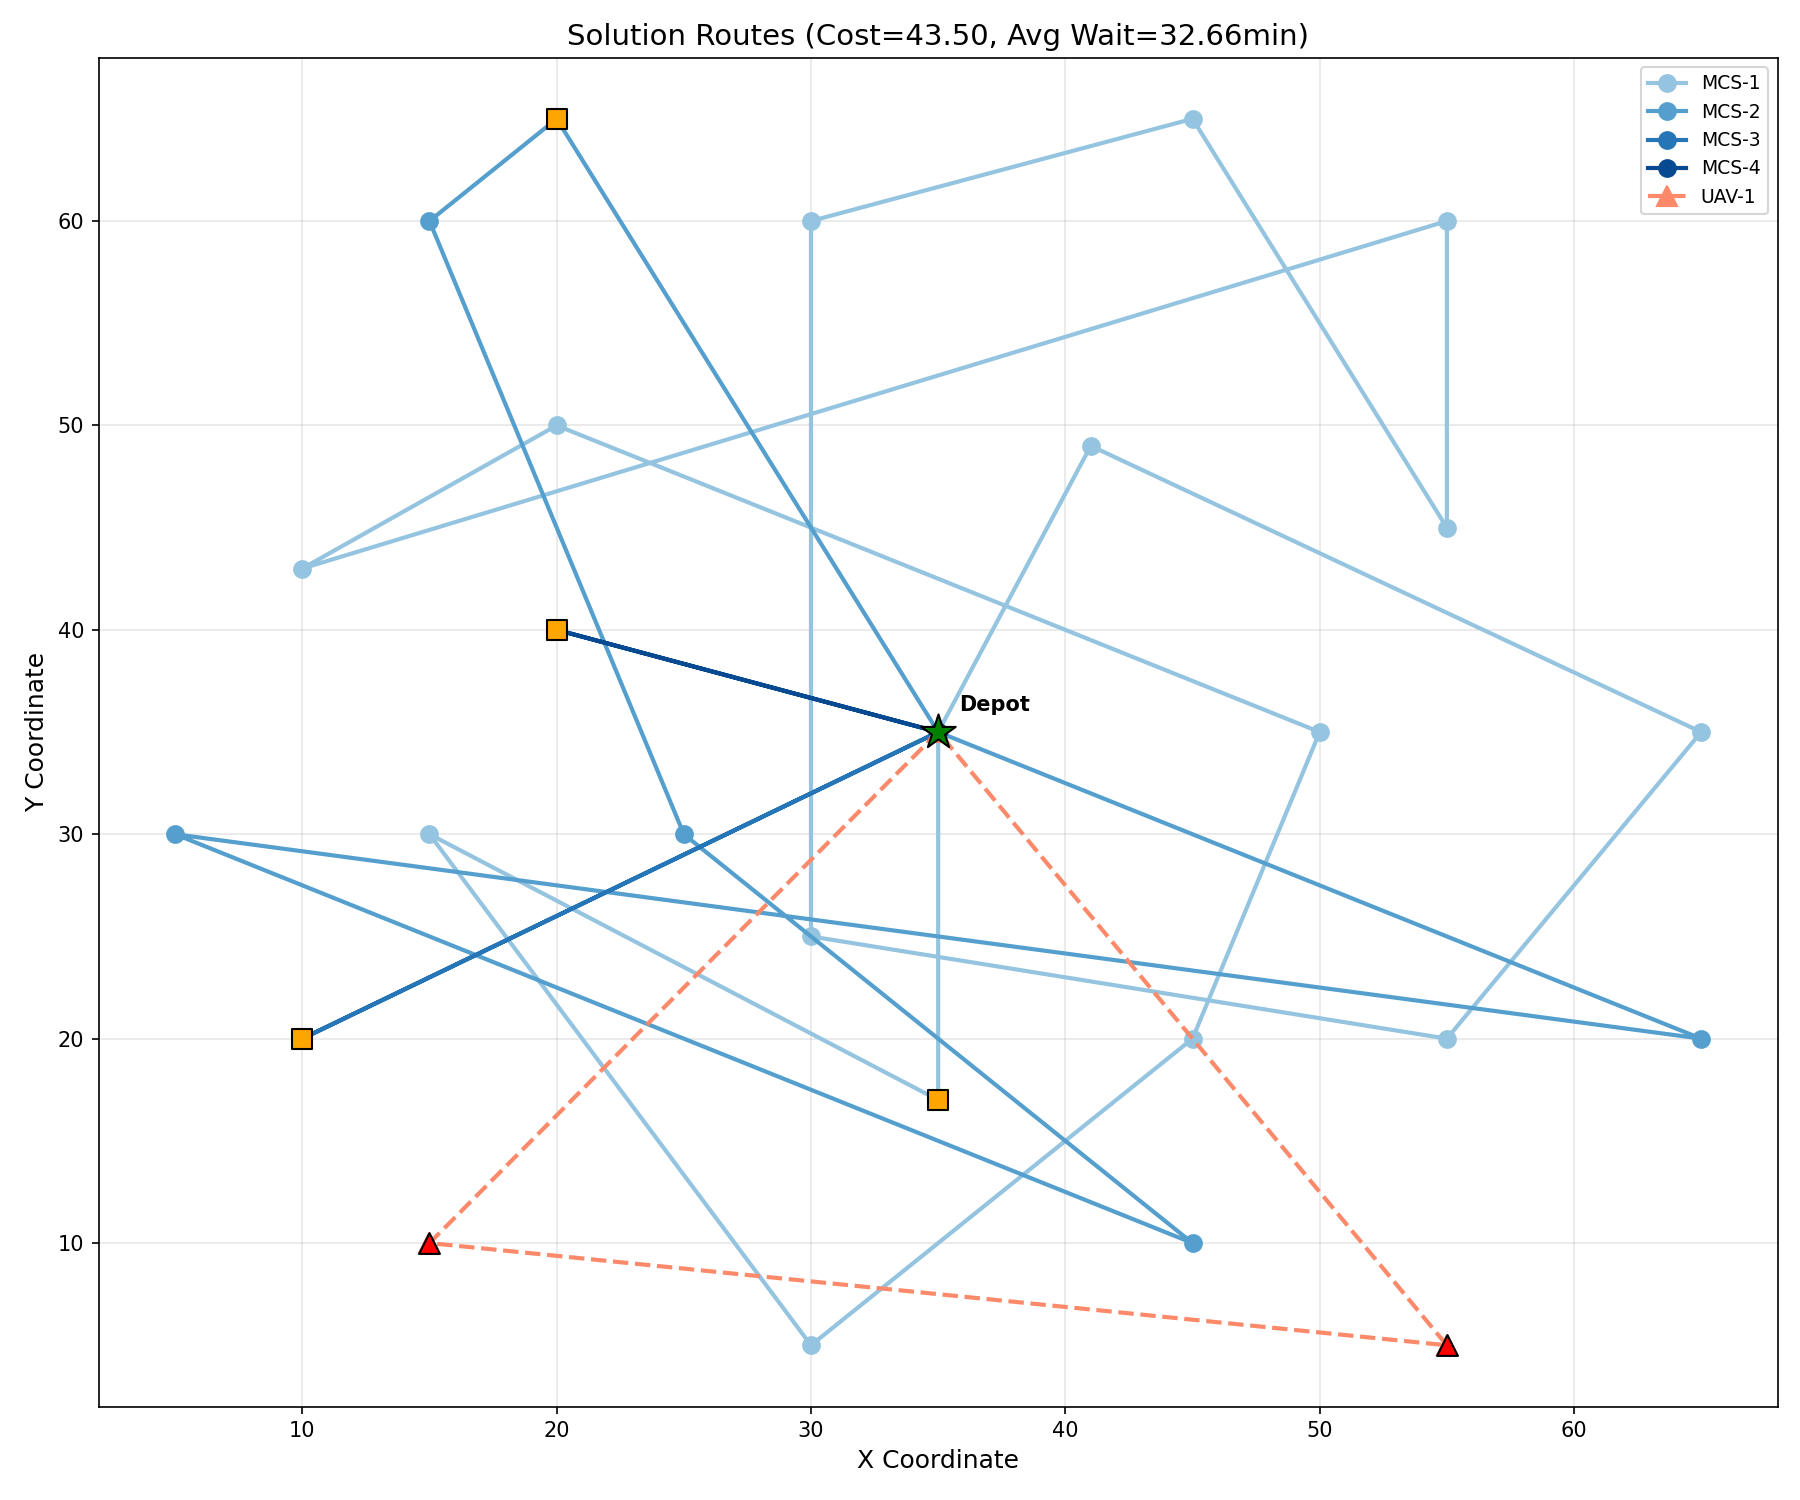
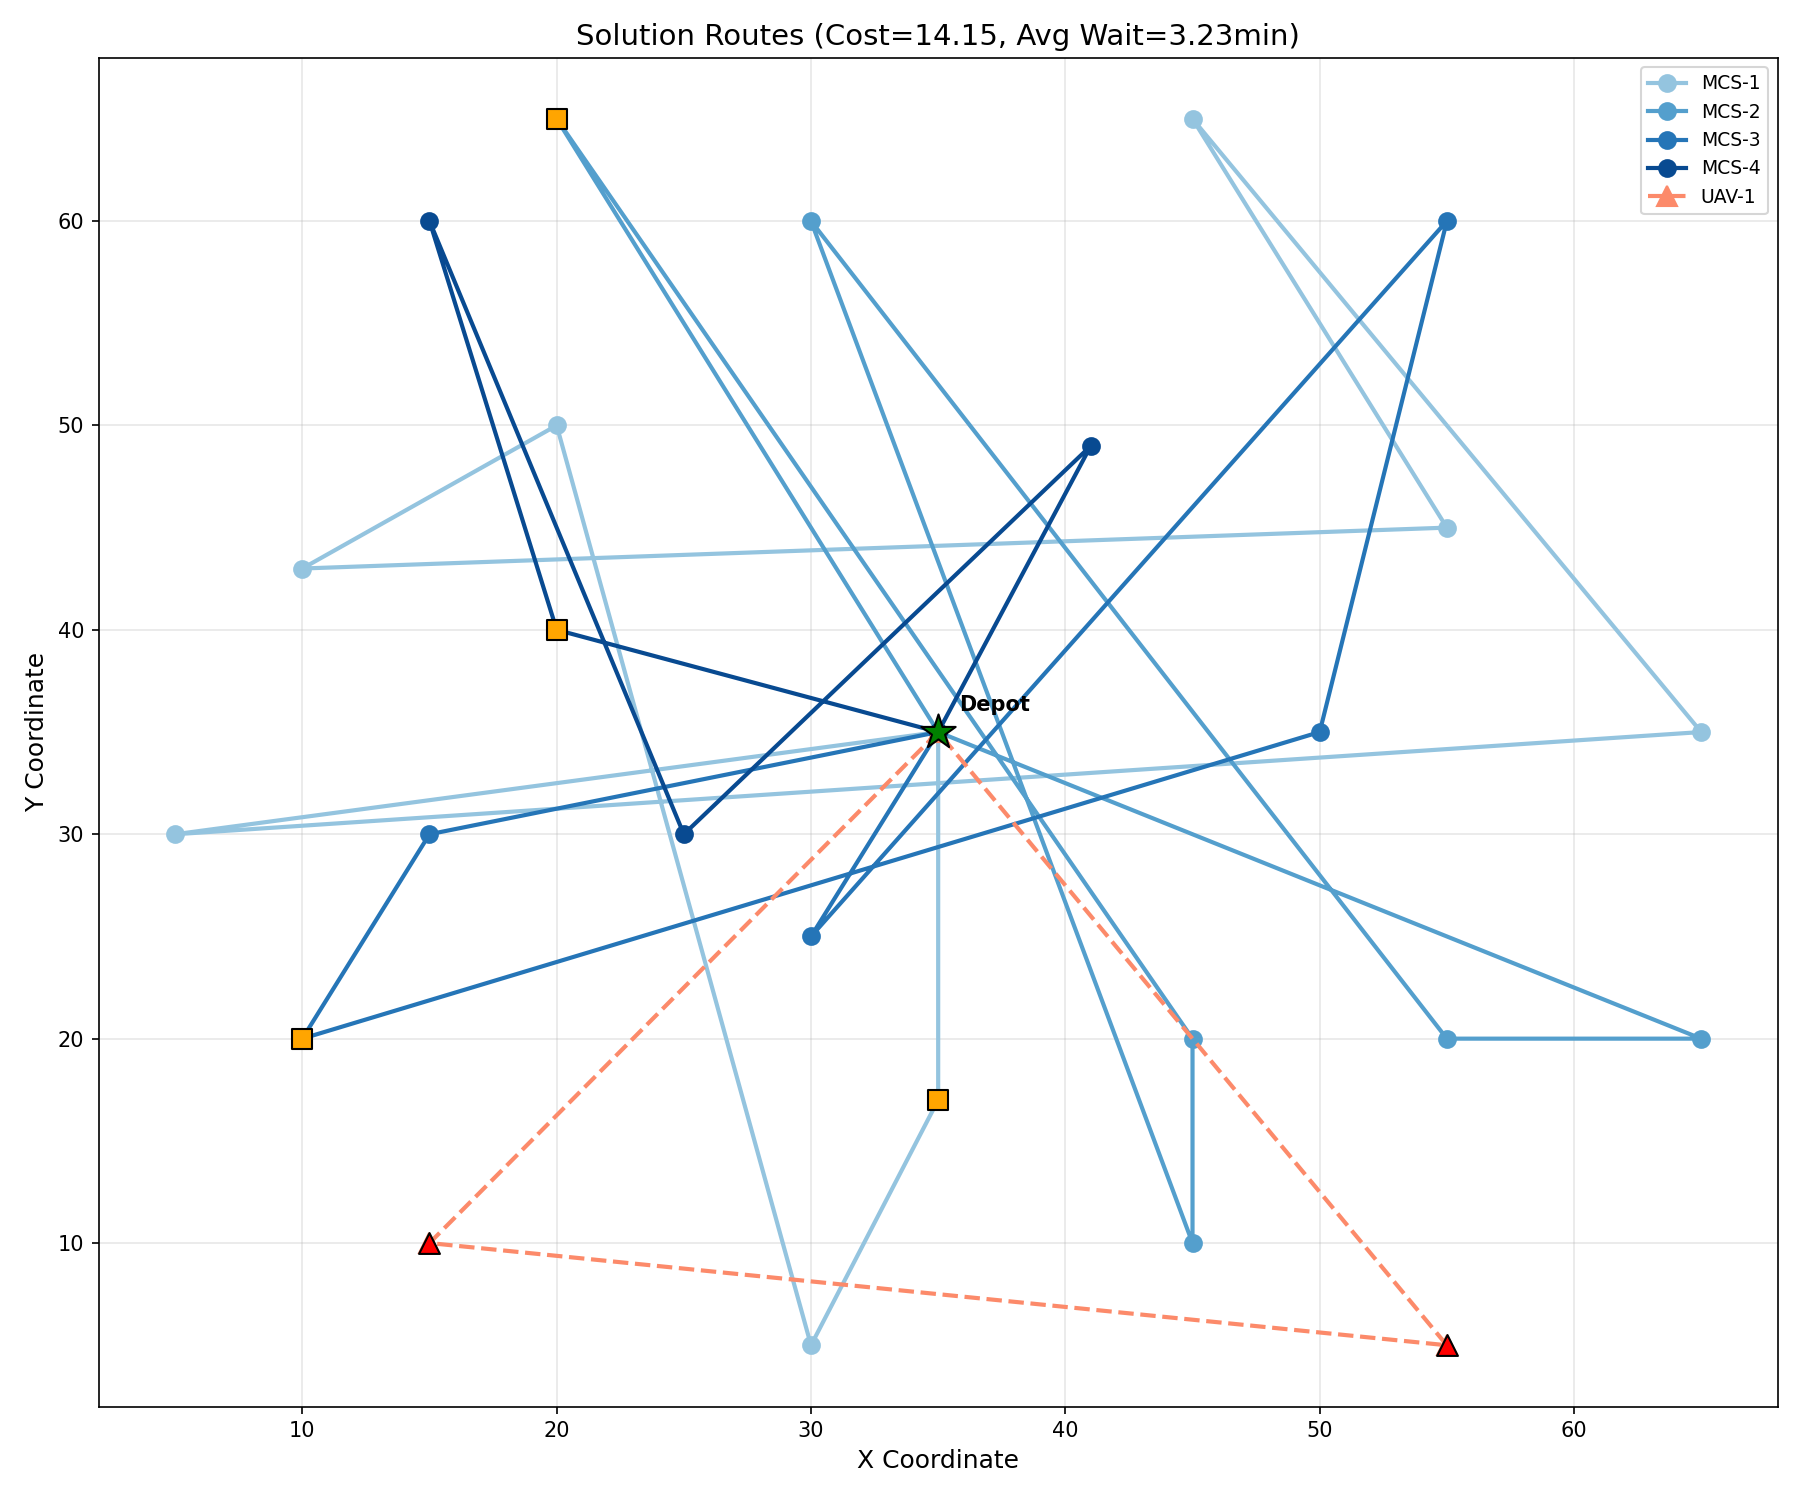
feat: update

diff --git a/main.py b/main.py
@@ -1536,6 +1536,8 @@ class ChargingSchedulingProblem:
         """
         嘗試在路徑的指定位置插入節點
         
+        插入準則：最小化用戶等待時間（與目標函數一致）
+        
         Args:
             route: 目標路徑
             node: 要插入的節點
@@ -1553,15 +1555,16 @@ class ChargingSchedulingProblem:
                 route.remove_node(position)
                 return False
         
-        # 嘗試所有可能的插入位置，找到可行的位置
+        # 嘗試所有可能的插入位置，找到用戶等待時間最小的位置
         best_position = None
-        best_cost = float('inf')
+        best_waiting_time = float('inf')
         
         for pos in range(len(route.nodes) + 1):
             route.insert_node(pos, node)
             if self.evaluate_route(route):
-                if route.total_distance < best_cost:
-                    best_cost = route.total_distance
+                # 以用戶等待時間為主要準則，距離作為 tie-breaker
+                if route.total_user_waiting_time < best_waiting_time:
+                    best_waiting_time = route.total_user_waiting_time
                     best_position = pos
             route.remove_node(pos)
         
@@ -1574,11 +1577,14 @@ class ChargingSchedulingProblem:
     
     def greedy_construction(self) -> Solution:
         """
-        Greedy Construction Heuristic - Earliest Due Date First
+        Greedy Construction Heuristic - Earliest Due Date First + Minimum Waiting Time Insertion
         
+        目標：最小化用戶等待時間
+        
+        策略：
         1. 將所有客戶依據 Due Date 由早到晚排序
-        2. 依序嘗試將客戶插入現有的車輛路徑中
-        3. Feasibility Check: 時間窗, 載重, 電量
+        2. 對每個客戶，遍歷所有候選路徑的所有可行插入位置
+        3. 選擇「等待時間增加最少」的 (路徑, 位置) 組合
         4. 如果現有車輛都塞不進去，就開啟一輛新車
         5. hard_to_access 節點強制只能由 UAV 服務
         
@@ -1593,7 +1599,7 @@ class ChargingSchedulingProblem:
         # 按 Due Date 由早到晚排序
         customers.sort(key=lambda n: n.due_date)
         
-        print("\n開始 Greedy Construction (EDD First)...")
+        print("\n開始 Greedy Construction (EDD First + Min Waiting Time)...")
         print(f"待分配客戶數: {len(customers)}")
         
         for customer in customers:
@@ -1603,21 +1609,44 @@ class ChargingSchedulingProblem:
             if customer.node_type == 'hard_to_access':
                 # Hard-to-Access 只能由 UAV 服務
                 candidate_routes = solution.uav_routes
-                vehicle_type = 'uav'
+                default_vehicle_type = 'uav'
             else:
-                # 其他節點優先嘗試 MCS，再嘗試 UAV
+                # 其他節點可嘗試 MCS 和 UAV
                 candidate_routes = solution.mcs_routes + solution.uav_routes
-                vehicle_type = 'mcs'  # 預設開新車時使用 MCS
+                default_vehicle_type = 'mcs'  # 預設開新車時使用 MCS
             
-            # 嘗試插入現有路徑
+            # ===== 核心改動：比較所有路徑，選擇等待時間增加最少的 =====
+            best_route = None
+            best_position = None
+            best_waiting_increase = float('inf')
+            
             for route in candidate_routes:
                 # 如果是 hard_to_access，跳過 MCS 路徑
                 if customer.node_type == 'hard_to_access' and route.vehicle_type == 'mcs':
                     continue
                 
-                if self.try_insert_node(route, customer):
-                    inserted = True
-                    break
+                # 記錄插入前的等待時間
+                original_waiting = route.total_user_waiting_time
+                
+                # 嘗試所有可能的插入位置
+                for pos in range(len(route.nodes) + 1):
+                    route.insert_node(pos, customer)
+                    if self.evaluate_route(route):
+                        waiting_increase = route.total_user_waiting_time - original_waiting
+                        if waiting_increase < best_waiting_increase:
+                            best_waiting_increase = waiting_increase
+                            best_route = route
+                            best_position = pos
+                    route.remove_node(pos)
+                
+                # 還原路徑狀態
+                self.evaluate_route(route)
+            
+            # 如果找到可行插入點
+            if best_route is not None:
+                best_route.insert_node(best_position, customer)
+                self.evaluate_route(best_route)
+                inserted = True
             
             # 如果無法插入現有路徑，開啟新車
             if not inserted:
